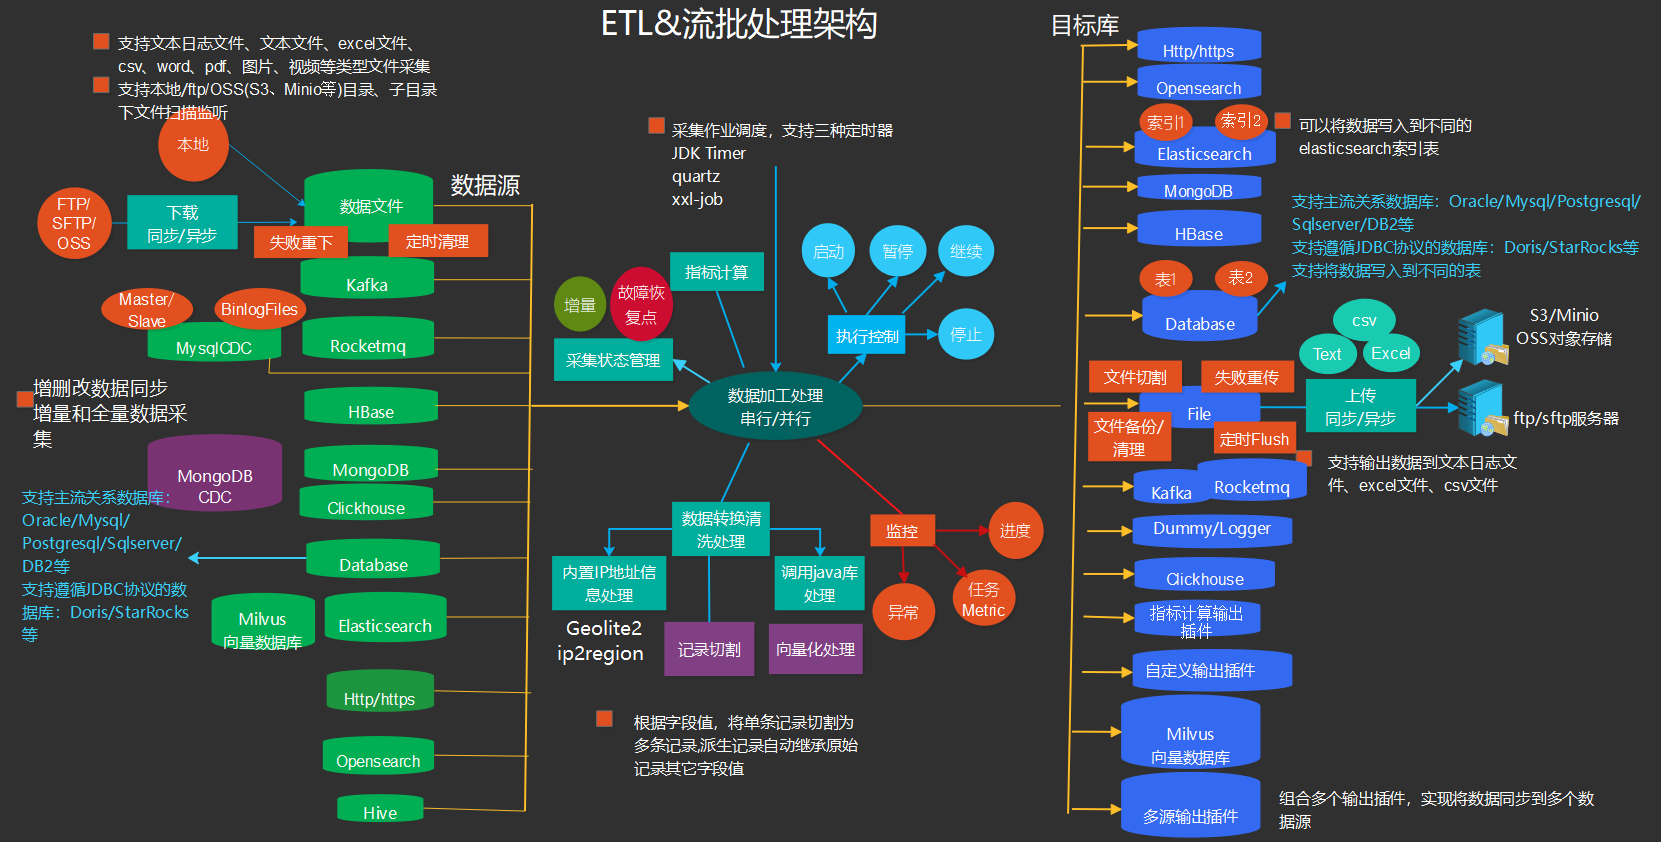
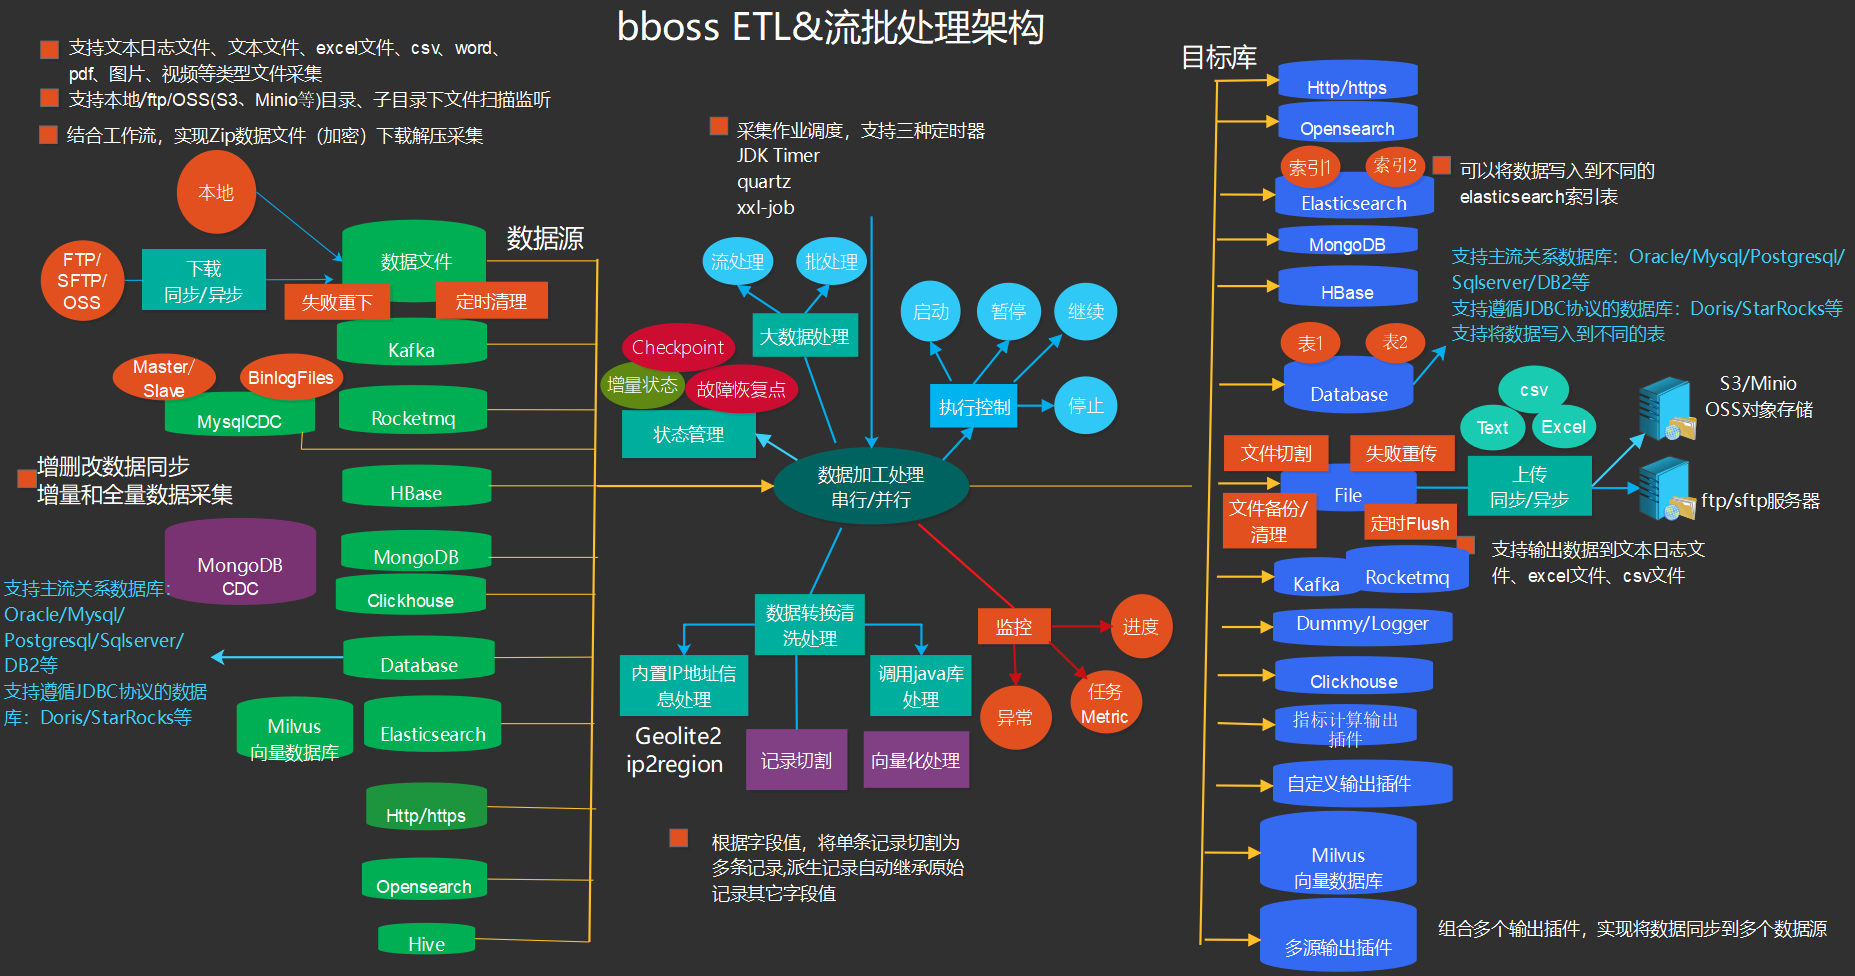
增加图片生成案例，完善注释

Changed region(s): [[0.0, 0.0, 1.0, 1.0], [0.3377, 0.0, 0.5834, 0.0618]]

diff --git a/docs/httpproxy5.md b/docs/httpproxy5.md
@@ -86,18 +86,10 @@ https://esdoc.bbossgroups.com/#/httpproxy
 ```properties
 http.poolNames = default
 ##http连接池配置
-http.timeoutConnection = 5000000
-http.timeoutSocket = 50000
-http.connectionRequestTimeout=10000
-http.retryTime = 0
-http.maxLineLength = -1
-http.maxHeaderCount = 200
+
 http.maxTotal = 200
 http.defaultMaxPerRoute = 200
-http.soReuseAddress = false
-http.soKeepAlive = false
-http.timeToLive = 3600000
-http.keepAlive = 3600000
+
 # ha proxy 集群负载均衡地址配置,多个地址用逗号分隔
 http.hosts=https://api.deepseek.com
 # https服务必须带https://协议头,多个地址用逗号分隔
@@ -219,38 +211,104 @@ Thread.sleep(100000000);
 
 ```java
 /**
-     * http://192.168.137.1:80/demoproject/reactor/deepseekChat.api?message=用Java解释Reactor编程模式
-     * @param message
+     * 背压案例 - 带会话记忆功能（完善版）
+     * http://127.0.0.1/demoproject/chatBackuppressSession.html
+     * @param questions
      * @return
      */
-    public Flux<String> deepseekChat(String message) {
-        Map<String, Object> requestMap = new HashMap<>();
-        requestMap.put("model", "deepseek-chat");
+    public Flux<List<ServerEvent>> deepseekBackuppressSession(@RequestBody Map<String,Object> questions) {
 
-        List<Map<String, String>> messages = new ArrayList<>();
-        Map<String, String> userMessage = new HashMap<>();
+        String selectedModel = (String)questions.get("selectedModel");
+        Boolean reset = (Boolean) questions.get("reset");
+        if(reset != null && reset){
+            sessionMemory.clear();
+        }
+        String message = (String)questions.get("message");
+        Map<String, Object> requestMap = new HashMap<>();
+        if(selectedModel.equals("deepseek")) {
+            requestMap.put("model", "deepseek-chat");
+        }
+        else {
+            requestMap.put("model", "Qwen/Qwen3-Next-80B-A3B-Instruct");//指定模型
+        }
+    
+        // 构建消息历史列表，包含之前的会话记忆
+        List<Map<String, Object>> messages = new ArrayList<>(sessionMemory);
+        
+        // 添加当前用户消息
+        Map<String, Object> userMessage = new HashMap<>();
         userMessage.put("role", "user");
         userMessage.put("content", message);
         messages.add(userMessage);
-
+    
         requestMap.put("messages", messages);
         requestMap.put("stream", true);
         requestMap.put("max_tokens", 2048);
         requestMap.put("temperature", 0.7);
-        return HttpRequestProxy.streamChatCompletion("/chat/completions",requestMap);
+        Flux<ServerEvent> flux = HttpRequestProxy.streamChatCompletionEvent(selectedModel,"/chat/completions",requestMap);
+    
+        // 用于累积完整的回答
+        StringBuilder completeAnswer = new StringBuilder();
+    
+        return flux.doOnNext(chunk -> {
+           
+            if(!chunk.isDone()) {
+                logger.info(chunk.getData());
+            }
+            
+        })
+        .limitRate(5) // 限制请求速率
+        .buffer(3) // 每3个元素缓冲一次
+        .doOnNext(bufferedEvents -> {
+            // 处理模型响应并更新会话记忆
+            for(ServerEvent event : bufferedEvents) {
+                //答案前后都可以添加链接和标题
+                if(event.isFirst() || event.isDone()){
+                    event.addExtendData("url","https://www.bbossgroups.com");
+                    event.addExtendData("title","bboss官网");
+                }
+                if(!event.isDone() ) {
+                    // 累积回答内容
+                    if(event.getData() != null) {
+                        completeAnswer.append(event.getData());
+                    }
+                } else  {
+                    
+                    if( completeAnswer.length() > 0) {
+                        // 当收到完成信号且有累积内容时，将完整回答添加到会话记忆
+                        Map<String, Object> assistantMessage = new HashMap<>();
+                        assistantMessage.put("role", "assistant");
+                        assistantMessage.put("content", completeAnswer.toString());
+                        sessionMemory.add(assistantMessage);
 
+                        // 维护记忆窗口大小为20
+                        if (sessionMemory.size() > 20) {
+                            sessionMemory.remove(0);
+                        }
+                    }
+                    
+                    
+                }
+            }
+        });
     }
 ```
 
-服务接收message参数（用户提问），返回reactor Flux结果，前端可以发起以下请求调用服务：
-
-http://192.168.137.1:80/demoproject/reactor/deepseekChat.api?message=用Java解释Reactor编程模式
+服务接收message参数（用户提问），返回reactor Flux结果
 
 案例源码工程地址：https://gitee.com/bboss/bbootdemo    
 
-下载案例源码后运行https://gitee.com/bboss/bbootdemo/blob/master/src/test/java/org/frameworkset/test/Main.java
+Deepseek和硅基流动模型服务配置文件（自行申请和修改相关服务的官方apiKey）：https://gitee.com/bboss/bbootdemo/blob/master/src/main/resources/application.properties
 
-启动服务即可
+服务实现类：https://gitee.com/bboss/bbootdemo/blob/master/src/main/java/org/frameworkset/web/react/ReactorController.java
+
+下载案例源码后，直接运行Main类启动服务：https://gitee.com/bboss/bbootdemo/blob/master/src/test/java/org/frameworkset/test/Main.java
+
+服务启动后访问地址：http://127.0.0.1/demoproject/chatBackuppressSession.html
+
+可以选择特定模型进行功能验证：
+
+![](images\httpproxy\testpage.png)
 
 
 

diff --git a/docs/httpproxy.md b/docs/httpproxy.md
@@ -436,7 +436,15 @@ Map data = HttpRequestProxy.httpGetforObject("/testBBossIndexCrud",Map.class);//
  String data = HttpRequestProxy.httpGetforString("report","/testBBossIndexCrud");//在report集群上执行请求
 ```
 
-### 3.2.4 配置参数中使用环境变量
+### 3.2.4 停止负载均衡器
+
+可以调用API停止负载均衡器：停止名称为report的服务组
+
+```java
+HttpRequestProxy.stopHttpClient("report");
+```
+
+### 3.2.5 配置参数中使用环境变量
 
 可以在配置参数中使用环境变量，环境变量引用方式：
 
@@ -462,7 +470,7 @@ http.routing=#[area]
 
 这样我们在os(linux,unix,windows)中配置名称为area的环境变量即可。
 
-### 3.2.5 spring boot配置和使用http proxy
+### 3.2.6 spring boot配置和使用http proxy
 
 示例工程源码获取地址：https://github.com/bbossgroups/bestpractice/tree/master/springboot-starter
 
@@ -486,7 +494,7 @@ spring 3.x
 </dependency>
 ```
 
-#### 3.2.5.1 单http服务池
+#### 3.2.6.1 单http服务池
 
 在spring boot配置文件[application.properties](https://github.com/bbossgroups/bestpractice/tree/master/springboot-starter/resources/application.properties)中添加http proxy的配置参数
 
@@ -625,7 +633,7 @@ public class BBossStarterTestCase {
 ```
 
 
-#### 3.2.5.2 多http服务池配置
+#### 3.2.6.2 多http服务池配置
 
 在spring boot配置文件[application-multi.properties](https://github.com/bbossgroups/bestpractice/tree/master/springboot-starter/resources/application-multi.properties)中添加http proxy的配置参数
 
@@ -862,7 +870,7 @@ public class MultiBBossStartersTestCase {
 	private BBossStarter bbossStarterDefault;
 ```
 
-### 3.2.6 failAllContinue配置
+### 3.2.7 failAllContinue配置
 failAllContinue配置
 如果所有节点都被标记为不可用时，可以通过控制开关设置返回故障节点用于处理请求，如果请求能够被正常处理则将节点标记为正常节点 默认值true 非spring boot项目配置
 
@@ -871,7 +879,7 @@ spring boot配置项
 
      spring.bboss.http.failAllContinue = true
 
-### 3.2.7 http协议参数配置
+### 3.2.8 http协议参数配置
 
 参考文档：[http协议配置](https://esdoc.bbossgroups.com/#/development?id=_26-http%e5%8d%8f%e8%ae%ae%e9%85%8d%e7%bd%ae)
 
